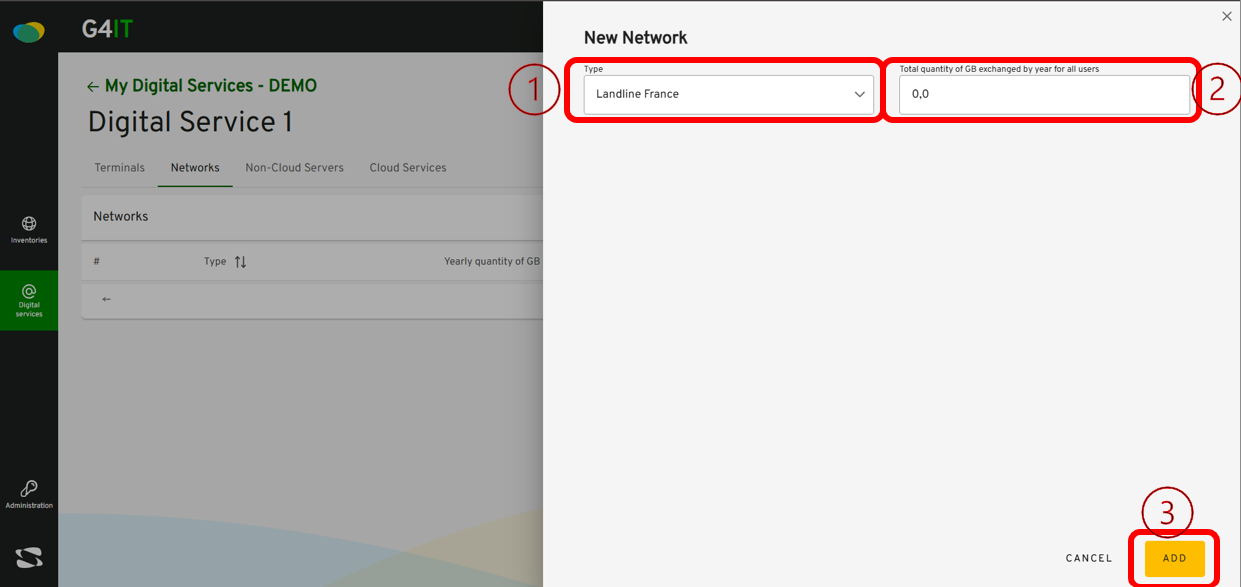
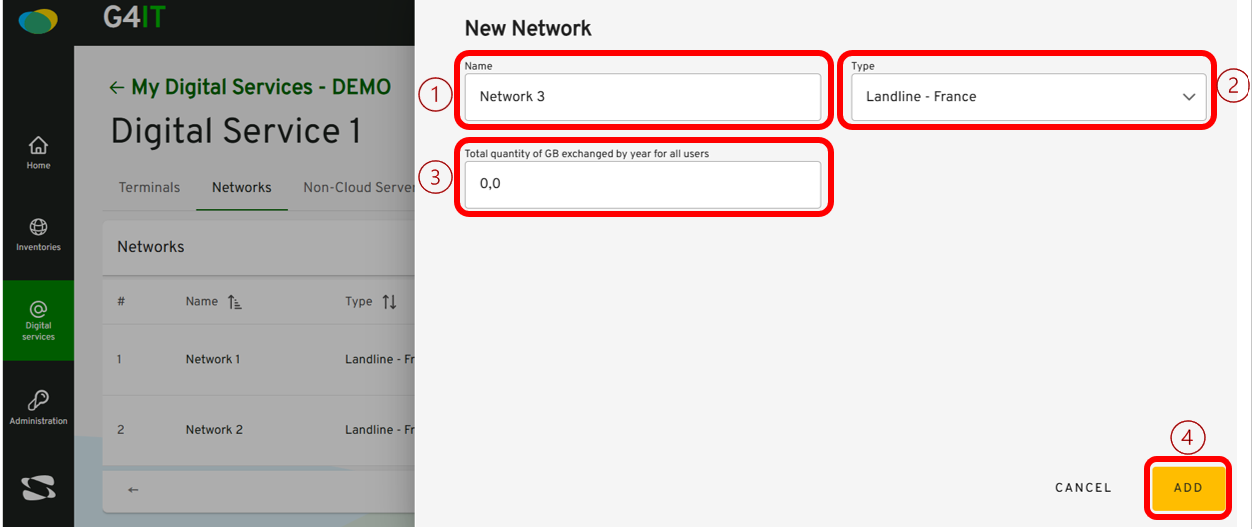
feat(1261): update doc

diff --git a/services/documentation/content/1-getting-started/1-getting-started-as-a-user/1-module-digital-service/2-load_data.md b/services/documentation/content/1-getting-started/1-getting-started-as-a-user/1-module-digital-service/2-load_data.md
@@ -60,19 +60,22 @@ weight: 20
 
 #### **Step 3:** Add a New Device
 
+-   **Action**: Click the "Digital service name" button to rename the digital service.
 -   **Action**: Click the "Add Device" button to create a new device entry.
+
 
 ![Screenshot showing the "Add Device" button for adding new device information.](../media/03_edit_name_create_device.png "Screenshot showing the 'Add Device' button for adding new device information.")
 
 #### **Step 4:** Complete Device Information
 
 -   **Action**: Fill in the required fields for your end-user device:
-    1. **Device Type**
-    2. **Country of Use**: This information will help determine which electricity mix to use when evaluating the impact of usage.
-    3. **Number of Users**
-    4. **Average Usage Per Year**
-    5. **Device Lifespan**
-    6. Click **Add Device** to save your input.
+    1.  **Name**: Assign a unique name to your terminal.
+    2.  **Device Type**
+    3. **Country of Use**: This information will help determine which electricity mix to use when evaluating the impact of usage.
+    4. **Number of Users**
+    5. **Average Usage Per Year**
+    6. **Device Lifespan**
+    7. Click **Add Device** to save your input.
 
 ![Screenshot showing the form to fill in device information, with fields such as device type, country, and usage.](../media/04_add_device.png "Screenshot showing the form to fill in device information, including device type, country, and usage.")
 
@@ -95,9 +98,10 @@ weight: 20
 #### **Step 7:** Complete Network Information
 
 -   **Action**: Fill in the necessary details about the terminal network:
-    1. **Network Type and Location**
-    2. **Annual Data Exchange Volume**
-    3. Click **Add Network** to save.
+    1. **Name**: Assign a unique name to your network.
+    2. **Network Type and Location**
+    3. **Annual Data Exchange Volume**
+    4. Click **Add Network** to save.
 
 ![Screenshot showing the form to fill in network details, including network type, location, and data volume.](../media/07_add_network.png "Screenshot showing a form to fill in network details, including network type, location, and data volume.")
 

diff --git a/services/documentation/content/2-functional-documentation/use_cases/uc_digital_services/uc7_delete_digital_service.md b/services/documentation/content/2-functional-documentation/use_cases/uc_digital_services/uc7_delete_digital_service.md
@@ -64,6 +64,6 @@ participant DataBase
 
 RND ->> front: Click on "Delete" button
 front ->> back: DELETE /api/{subscriber}/{organization}/digital-services/{digitalServiceUid}
-back -> DataBase: Delete the service, corresponding equipments and the indicator data
-back ->> front: Remove the service in the suited list
+back -> DataBase: Delete the digital service, corresponding data from tables in_physical_equipment,<br> in_virtual_equipment, in_datacenter and tasks
+back ->> front: Remove the digital service in the suited list
 {{</ mermaid >}}
